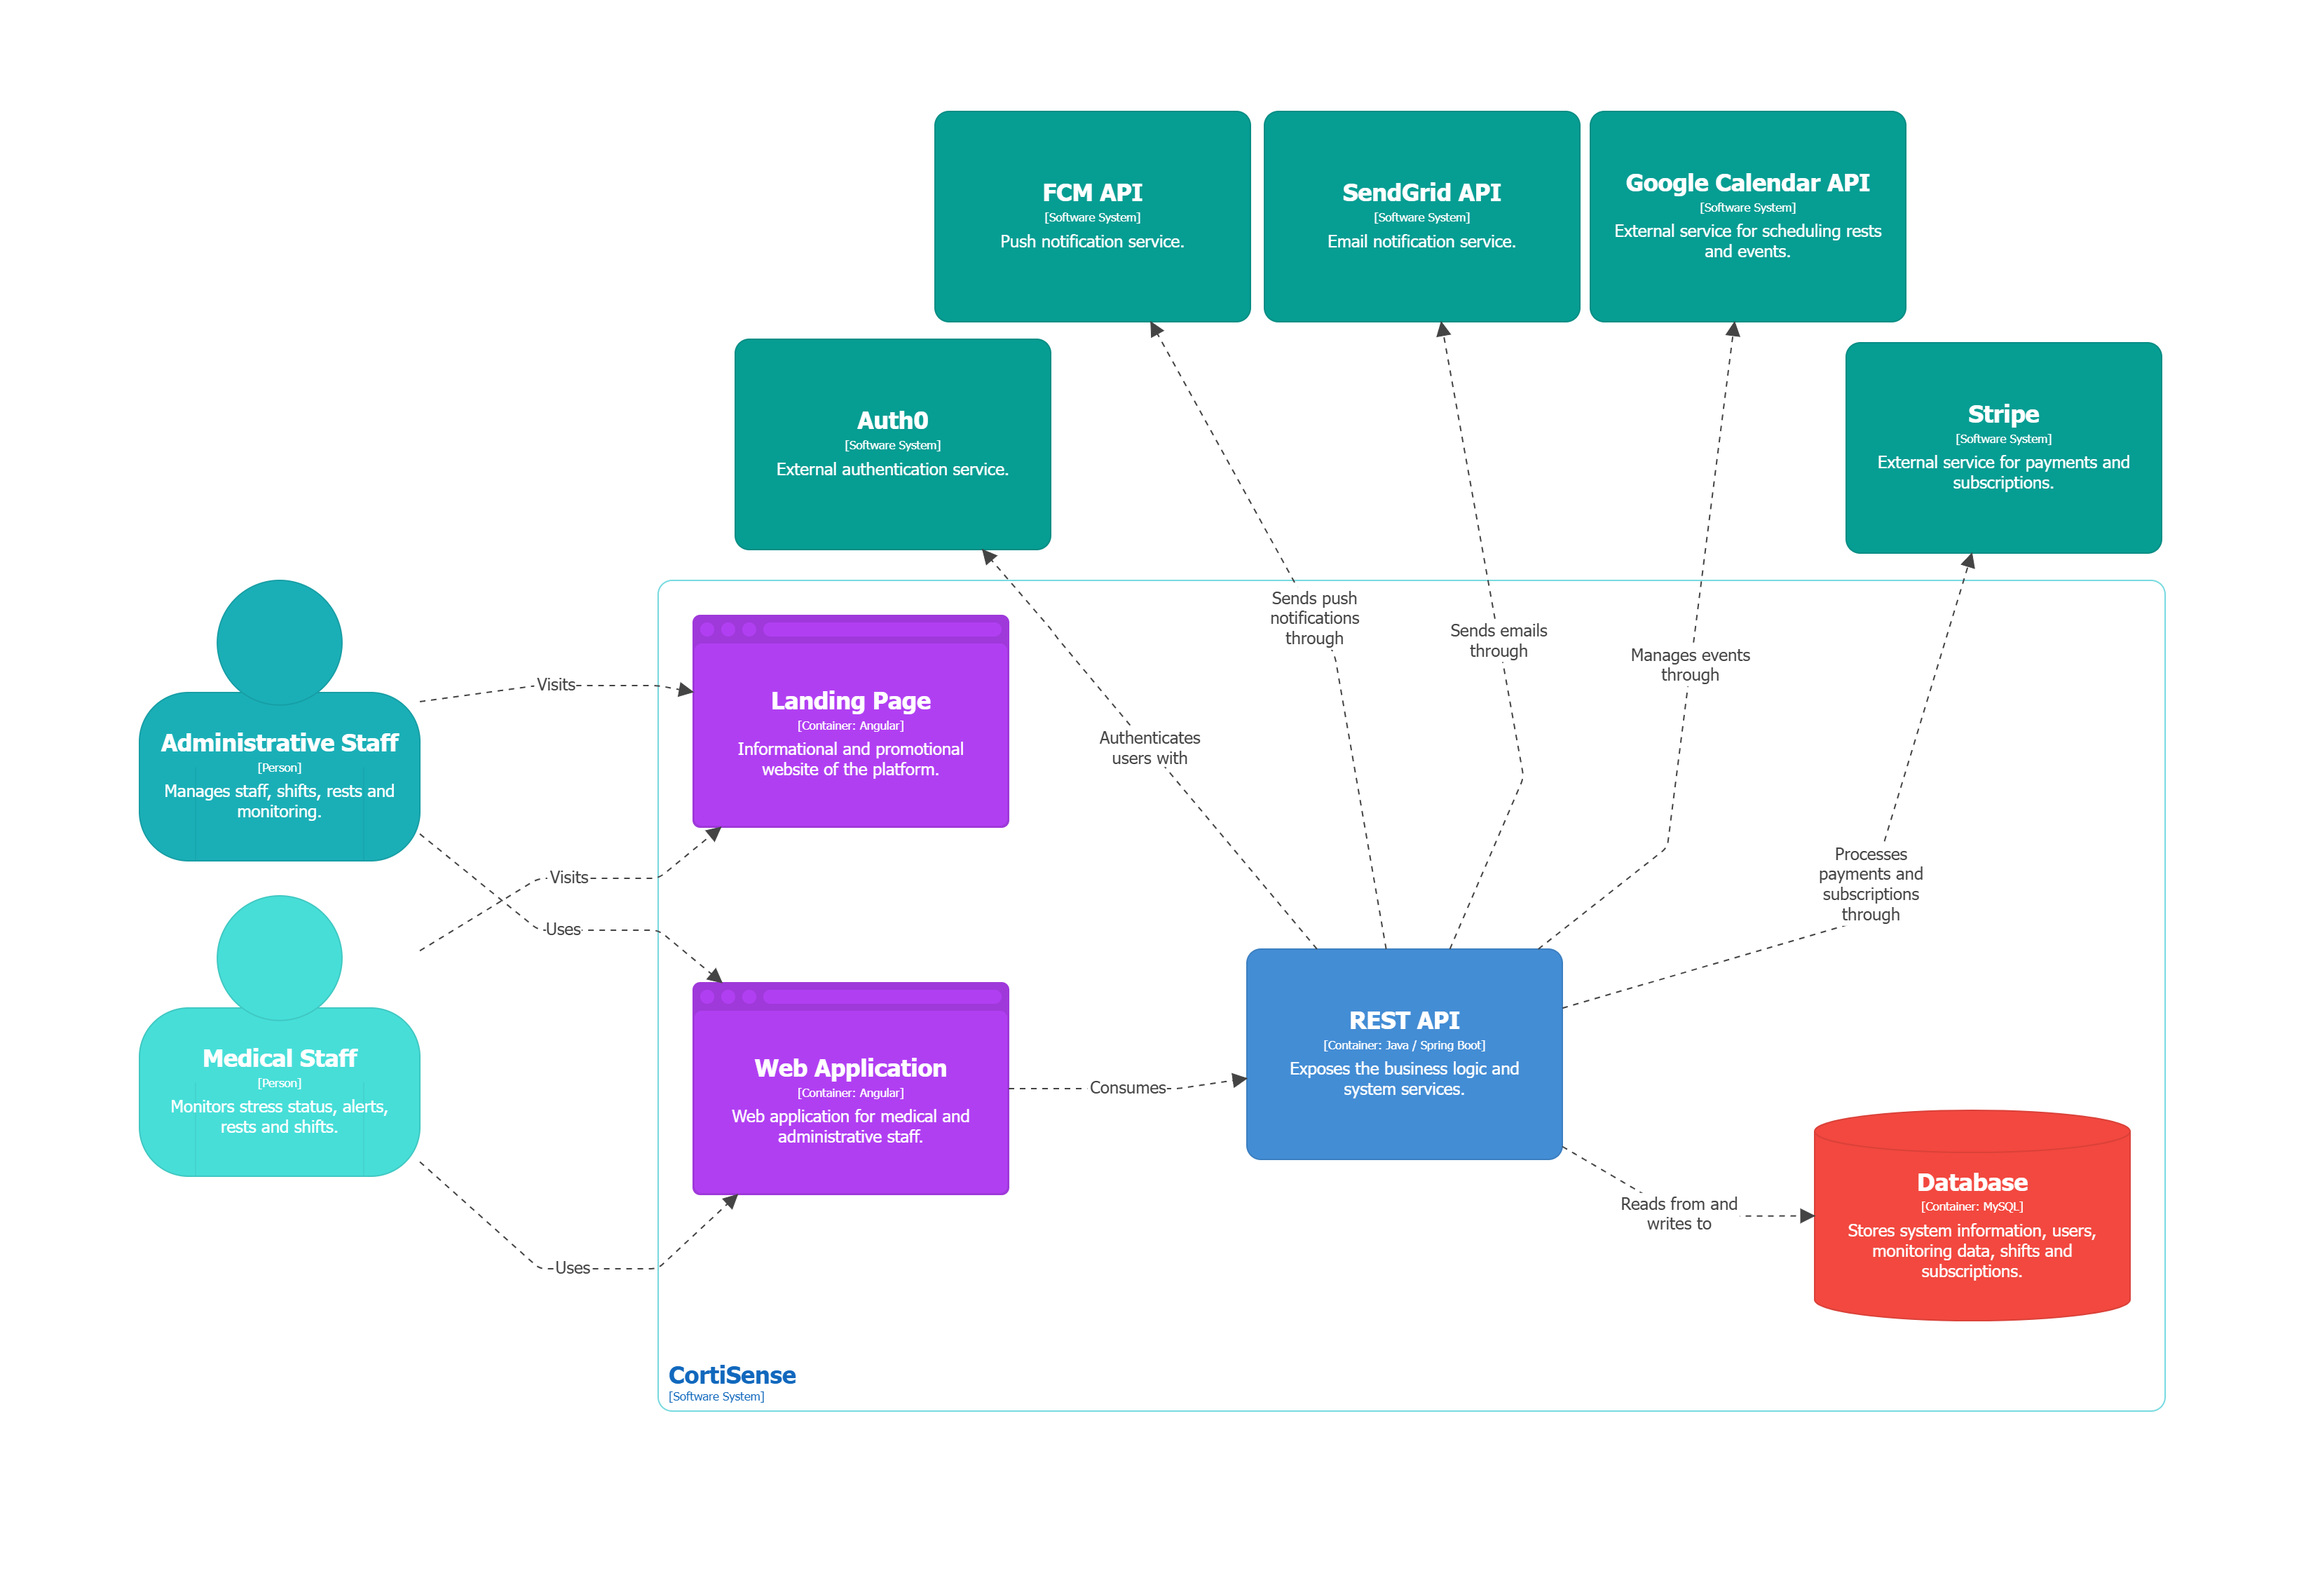
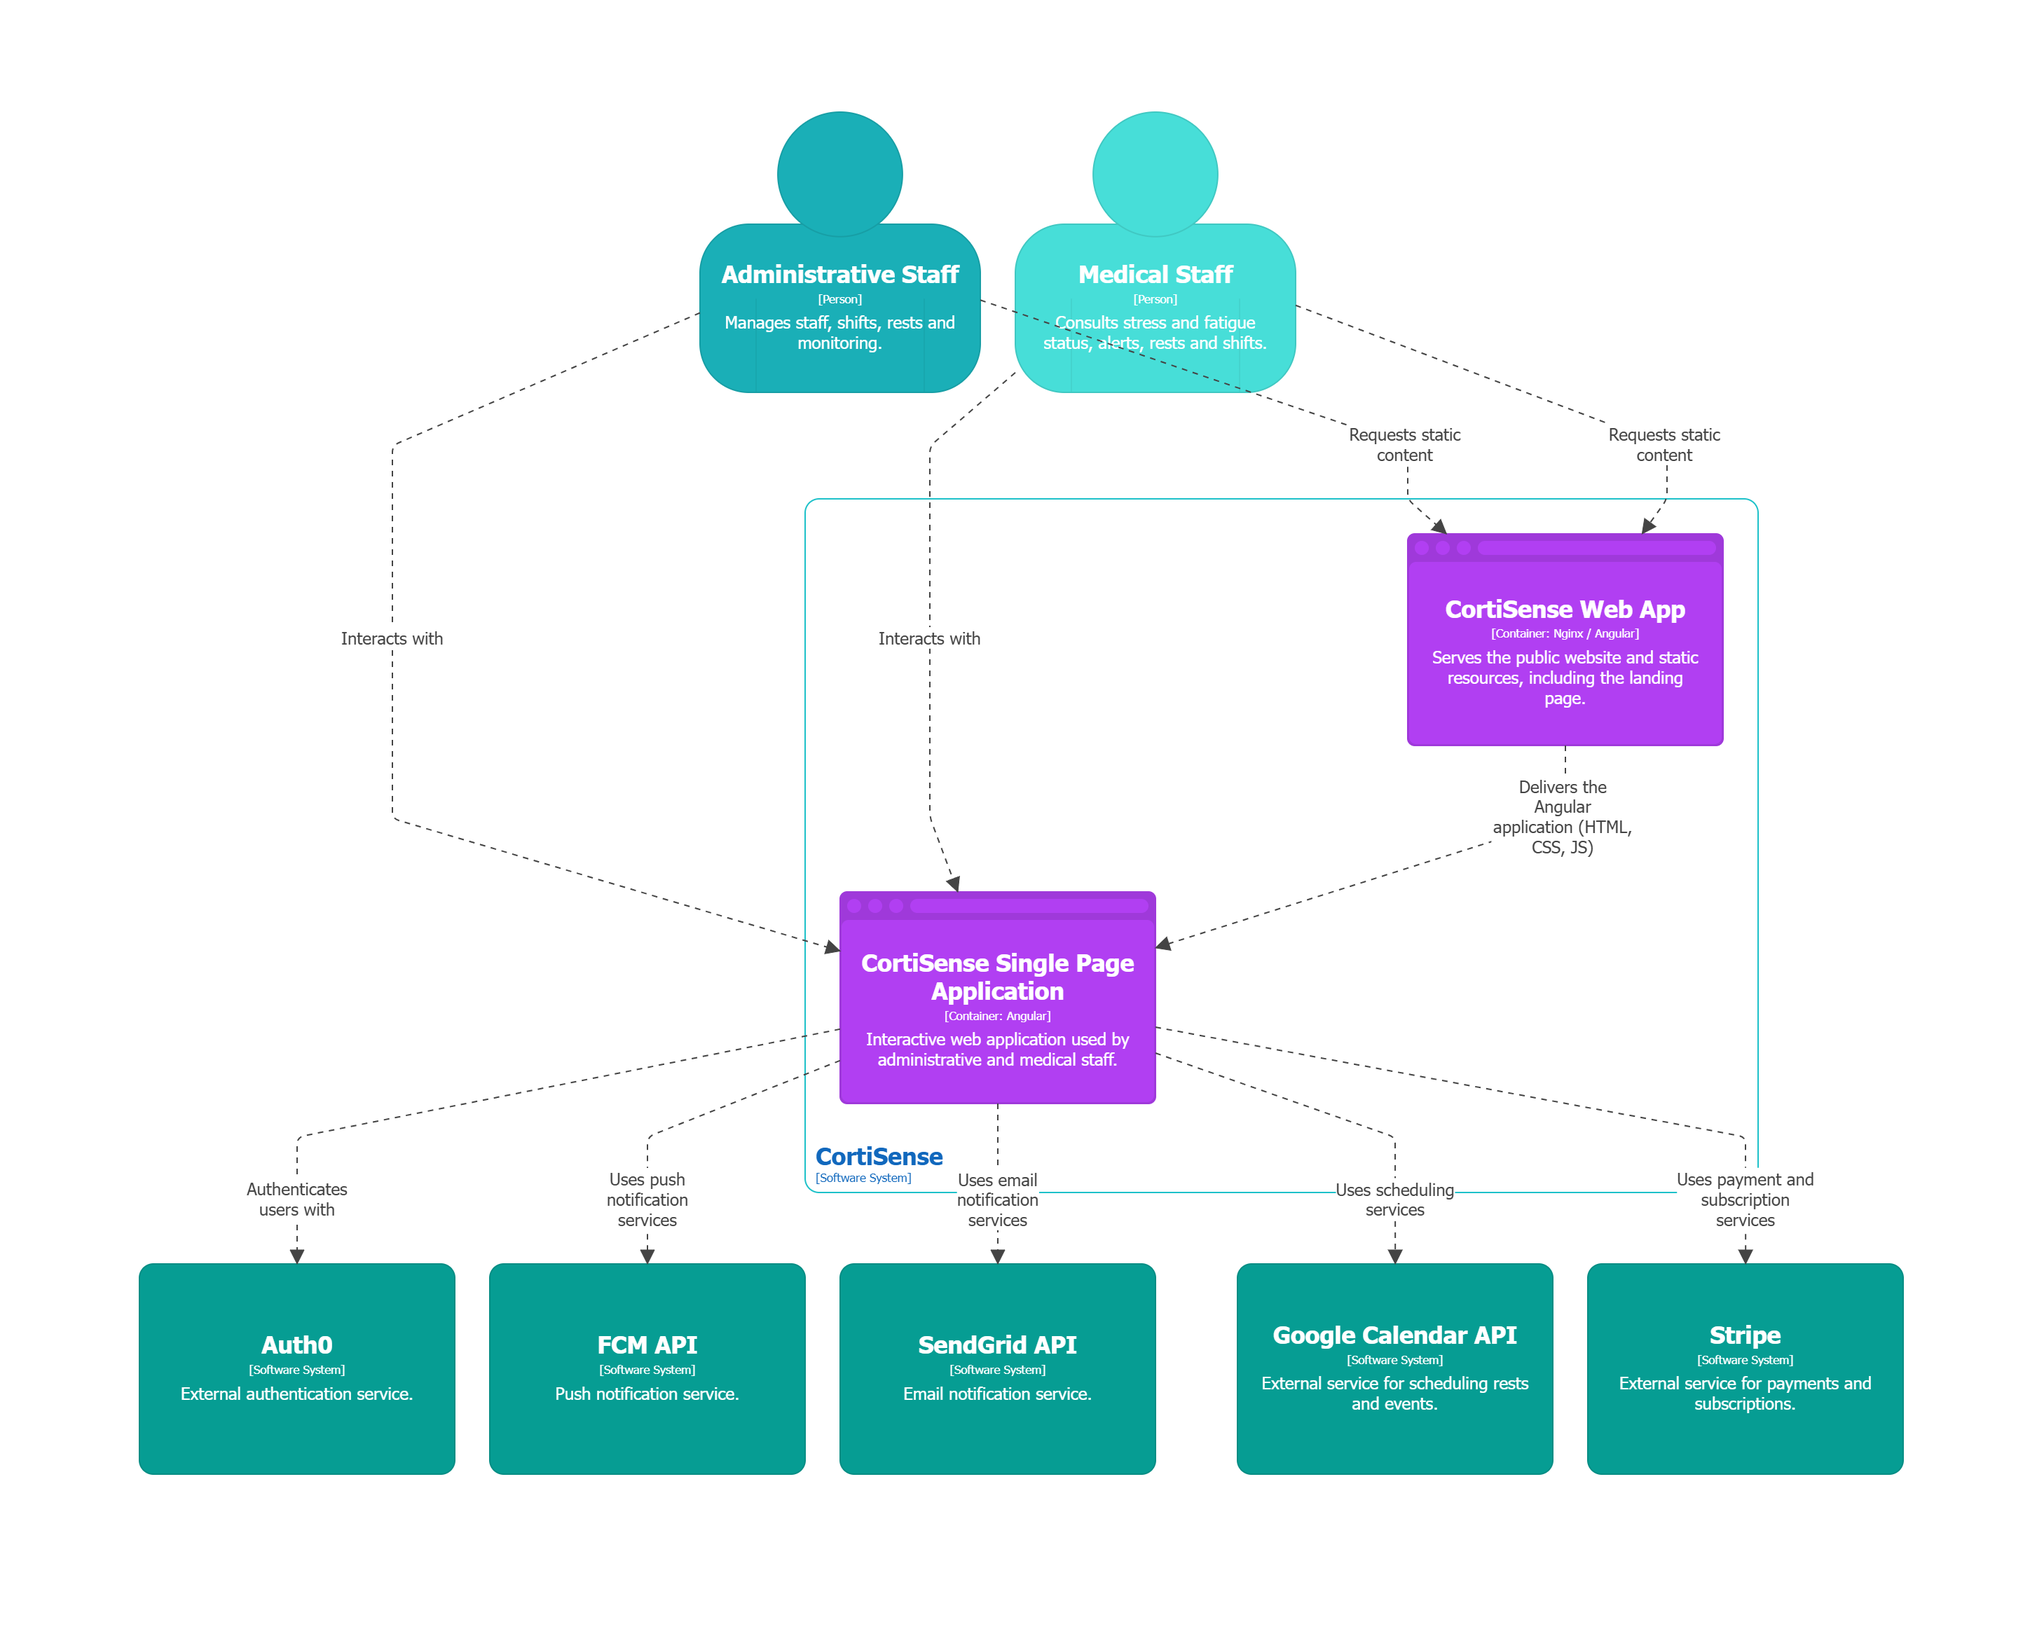
docs: corrections to the software architecture context, container and components

diff --git a/README.md b/README.md
@@ -1198,77 +1198,77 @@ A continuación, se describe cada bounded context de manera individual.
 
 ### 4.6.2. Software Architecture Context Diagram.
 
-<img src="Resources/Images/C4-Diagrams/context_diagram.png" alt="Diseño del diagrama de contexto."> <br>
+<img src="Resources/Images/C4-Diagrams/Context_Diagram.png" alt="Diseño del diagrama de contexto."> <br>
 
-El diagrama de contexto muestra a CortiSense como el sistema central y permite ver, de forma general, con quiénes interactúa y de qué servicios externos depende. En este caso, se observa la relación con el personal administrativo y el personal médico, así como con herramientas externas como Auth0, FCM, SendGrid, Google Calendar y Stripe, que apoyan funciones clave del sistema como autenticación, notificaciones, gestión de eventos y pagos.
+El diagrama de contexto presenta a CortiSense como el sistema central. En este se muestran los usuarios principales, personal administrativo y personal médico, junto con los servicios externos que apoyan funciones como autenticación, notificaciones, programación de descansos y pagos.
 
 ### 4.6.3. Software Architecture Container Diagrams.
 
-<img src="Resources/Images/C4-Diagrams/container_diagram.png" alt="Diseño del diagrama de contenedores."> <br>
+<img src="Resources/Images/C4-Diagrams/Container_Diagram.png" alt="Diseño del diagrama de contenedores."> <br>
 
-El diagrama de contenedores muestra cómo está organizado internamente el sistema CortiSense, identificando sus principales componentes y cómo se comunican entre sí. Se puede ver que los usuarios interactúan a través de la Landing Page y la Web Application, las cuales consumen los servicios de la REST API, donde se concentra la lógica del negocio. A su vez, la API se encarga de comunicarse con la base de datos y con servicios externos para funcionalidades como autenticación, notificaciones, calendario y pagos.
+El diagrama de contenedores muestra la organización general de CortiSense. Se observa la Web App, encargada de servir el contenido estático y la landing page, y la Single Page Application, que representa la aplicación interactiva usada por el personal médico y administrativo.
 
 ### 4.6.4. Software Architecture Components Diagrams.
 
-### REST API
+### CortiSense Single Page Application
 
-<img src="Resources/Images/C4-Diagrams/api_rest_component_diagram.png" alt="Diseño del diagrama de componentes de la Rest Api"> <br>
+<img src="Resources/Images/C4-Diagrams/Spa_Diagram.png" alt="Diseño del diagrama de componentes de CortiSense Single Page Application."> <br>
 
-El diagrama muestra la organización interna de la REST API, donde cada componente representa un bounded context del sistema. Se puede observar cómo interactúan entre sí y con servicios externos para implementar la lógica del negocio.
+Este diagrama muestra la relación entre la Single Page Application, la API Application y la base de datos. Dentro de la API Application se representan los bounded contexts identificados para organizar la lógica principal del backend.
 
-### State Analysis
+### Stress and Fatigue Analysis
 
-<img src="Resources/Images/C4-Diagrams/state_component_diagram.png" alt="Diseño del diagrama de componentes del bounded context de Análisis de estado"> <br>
+<img src="Resources/Images/C4-Diagrams/Stress_Components.png" alt="Diseño del diagrama de componentes de Stress and Fatigue Analysis."> <br>
 
-El diagrama de componentes de Análisis de estado muestra cómo se estructura este módulo para procesar los datos biométricos y determinar los niveles de estrés y fatiga del personal médico.
-
-### Medical Rest Management
-
-<img src="Resources/Images/C4-Diagrams/rest_component_diagram.png" alt="Diseño del diagrama de componentes del bounded context de Gestión del descanso médico"> <br>
-
-El diagrama de componentes de Gestión del descanso médico muestra cómo se administran los descansos del personal médico, incluyendo su programación, modificación y validación.
-
-### Alerting and Notification Management
-
-<img src="Resources/Images/C4-Diagrams/alerting_component_diagram.png" alt="Diseño del diagrama de componentes del bounded context de Gestión de alertas y notificaciones"> <br>
-
-El diagrama de componentes de Gestión de alertas y notificaciones muestra cómo el sistema genera y envía alertas a partir de los eventos detectados en otros módulos.
+Este diagrama muestra cómo se analiza la información biométrica para determinar los niveles de estrés y fatiga del personal médico.
 
 ### Biometric Data Management
 
-<img src="Resources/Images/C4-Diagrams/biometric_component_diagram.png" alt="Diseño del diagrama de componentes del bounded context de Gestión de datos biométricos"> <br>
+<img src="Resources/Images/C4-Diagrams/Data_Components.png" alt="Diseño del diagrama de componentes de Biometric Data Management."> <br>
 
-El diagrama de componentes de Gestión de datos biométricos muestra cómo se almacenan, actualizan y gestionan los datos provenientes de los dispositivos médicos.
+Este diagrama muestra cómo se registran, consultan y almacenan los datos biométricos provenientes de los dispositivos médicos.
+
+### Alerting and Notification Management
+
+<img src="Resources/Images/C4-Diagrams/Alerting_Components.png" alt="Diseño del diagrama de componentes de Alerting and Notification Management."> <br>
+
+Este diagrama muestra cómo se generan alertas y se gestionan las notificaciones del sistema.
 
 ### Identity and Access Management
 
-<img src="Resources/Images/C4-Diagrams/identity_component_diagram.png" alt="Diseño del diagrama de componentes del bounded context de Gestión de identidad y acceso"> <br>
+<img src="Resources/Images/C4-Diagrams/Identity_Components.png" alt="Diseño del diagrama de componentes de Identity and Access Management."> <br>
 
-El diagrama de componentes de Gestión de identidad y acceso muestra cómo se gestionan la autenticación, verificación y control de acceso dentro del sistema.
+Este diagrama muestra cómo se gestiona la autenticación, validación de usuarios y control de acceso.
 
 ### Medical Staff Management
 
-<img src="Resources/Images/C4-Diagrams/staff_component_diagram.png" alt="Diseño del diagrama de componentes del bounded context de Gestión de personal médico"> <br>
+<img src="Resources/Images/C4-Diagrams/Staff_Components.png" alt="Diseño del diagrama de componentes de Medical Staff Management."> <br>
 
-El diagrama de componentes de Gestión de personal médico muestra cómo se administra la información del personal médico, incluyendo su registro y búsqueda.
+Este diagrama muestra cómo se administra la información del personal médico, incluyendo registro, consulta y búsqueda.
 
 ### Medical Device Management
 
-<img src="Resources/Images/C4-Diagrams/device_component_diagram.png" alt="Diseño del diagrama de componentes del bounded context de Gestión de dispositivos médicos"> <br>
+<img src="Resources/Images/C4-Diagrams/Device_Components.png" alt="Diseño del diagrama de componentes de Medical Device Management."> <br>
 
-El diagrama de componentes de Gestión de dispositivos médicos muestra cómo se realiza la vinculación y configuración de los dispositivos utilizados por el sistema.
+Este diagrama muestra cómo se gestiona la vinculación, sincronización y configuración de dispositivos médicos.
 
-### Subscription and Payment Management
+### Medical Rest Management
 
-<img src="Resources/Images/C4-Diagrams/subscription_component_diagram.png" alt="Diseño del diagrama de componentes del bounded context de Suscripciones y gestión de pagos"> <br>
+<img src="Resources/Images/C4-Diagrams/Rest_Components.png" alt="Diseño del diagrama de componentes de Medical Rest Management."> <br>
 
-El diagrama de componentes de Suscripciones y gestión de pagos muestra cómo se gestionan los planes, pagos y el acceso a funcionalidades de la plataforma.
+Este diagrama muestra cómo se administran los descansos médicos, incluyendo programación, modificación y recomendaciones.
 
 ### Medical Shift Management
 
-<img src="Resources/Images/C4-Diagrams/shift_component_diagram.png" alt="Diseño del diagrama de componentes del bounded context de Gestión de turnos médicos"> <br>
+<img src="Resources/Images/C4-Diagrams/Shift_Components.png" alt="Diseño del diagrama de componentes de Medical Shift Management."> <br>
 
-El diagrama de componentes de Gestión de turnos médicos muestra cómo se administran los horarios del personal médico, incluyendo asignación, validación y reprogramación.
+Este diagrama muestra cómo se gestionan los turnos médicos, incluyendo asignación, validación y reprogramación.
+
+### Subscription and Payment Management
+
+<img src="Resources/Images/C4-Diagrams/Subscription_Components.png" alt="Diseño del diagrama de componentes de Subscription and Payment Management."> <br>
+
+Este diagrama muestra cómo se administran las suscripciones, pagos y acceso a funcionalidades de la plataforma.
 
 ## 4.7. Software Object-Oriented Design.
 ### 4.7.1. Class Diagrams.
